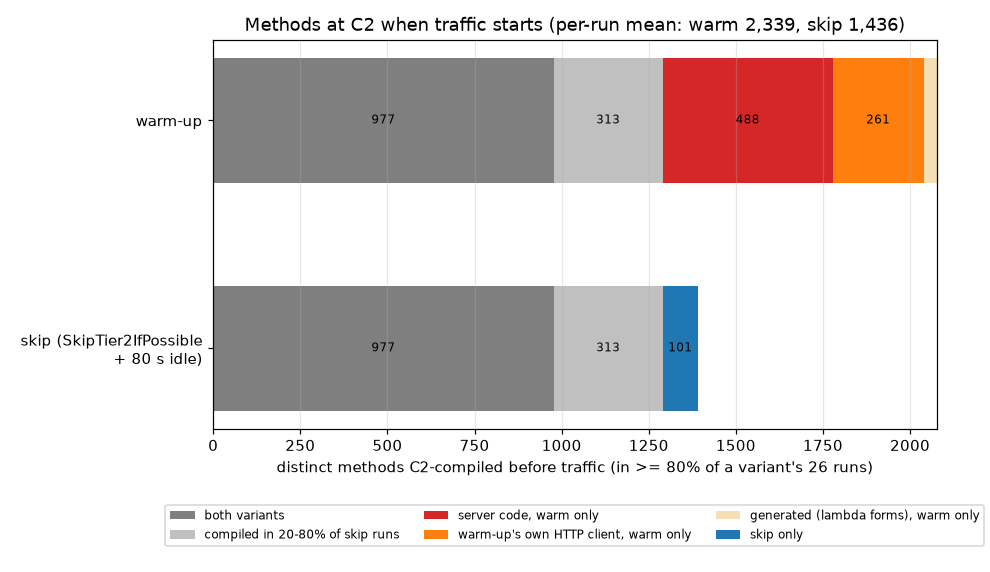
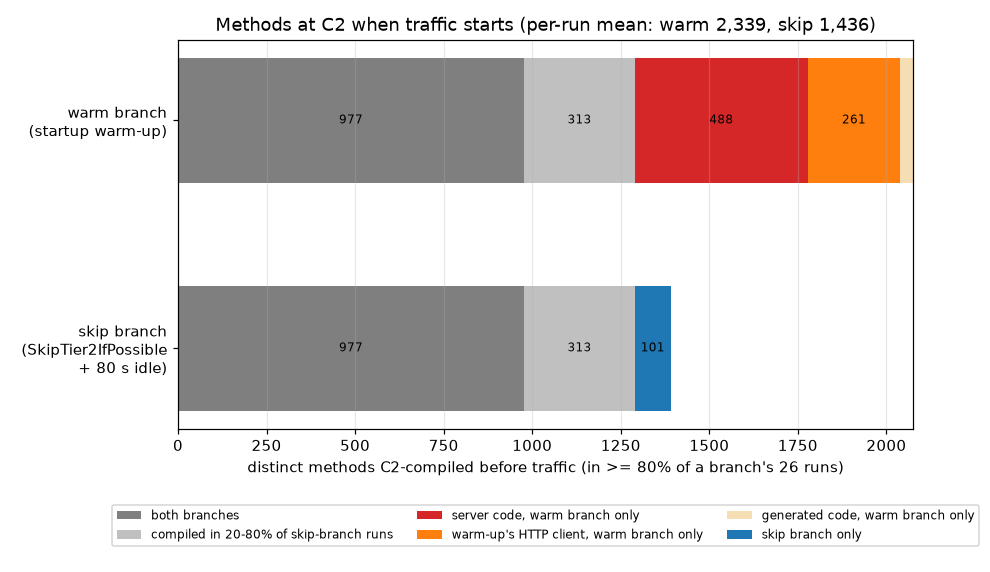
SkipTier2 vs warm-up report: describe the test branches, explain preloaded vs initialized classes

diff --git a/20261119-skiptier2-vs-warmup/REPORT.md b/20261119-skiptier2-vs-warmup/REPORT.md
@@ -4,37 +4,76 @@ Date: 2026-11-19. This report summarizes and extends the earlier ones: [jit-dela
 and [jit-5s](../20261119-jit-5s/REPORT.md). It adds a source-level investigation of HotSpot's training replay
 and a follow-up experiment (fix A plus an idle-period GC).
 
+**Naming.** `warm` and `skip` in monospace are the two test branches described in section 1. Plain-text "the
+warm-up" or "the startup warm-up" means the mechanism: the self-traffic the API sends itself at startup.
+
 ## Summary
 
-- **Warm-up starts traffic with about 900 more methods at C2 than skip does: 2,339 vs 1,436 per run.**
-  - About 300 of the difference is warm-up's own HTTP client and generated code. Serving doesn't need them.
+- **`warm` starts traffic with about 900 more methods at C2 than `skip`: 2,339 vs 1,436 per run.**
+  - About 300 of the difference is the warm-up's own HTTP client and generated code. Serving doesn't need them.
   - **488 are server methods on the request path,** such as Tomcat, NIO, Jackson, PgJDBC, Hikari and our
-    servlet. Skip has to compile those with C2 after traffic arrives, about 300–370 C2 compiles in all. That
+    servlet. `skip` has to compile those with C2 after traffic arrives, about 300–370 C2 compiles in all. That
     keeps C2 at about 0.4 of the API's single CPU for the first 8 s of the burst.
-  - This is the root of skip's failures: it passed 3 of 26 runs, against 23 of 26 for warm-up.
+  - This is the root of `skip`'s failures: it passed 3 of 26 runs, against 23 of 26 for `warm`.
 - **The AOT cache knows about all of these methods.** All but one have training data, with stored profiles.
-  Eager compilation still doesn't C2-compile them before traffic, for three reasons visible in the HotSpot
-  source (JDK 25):
+  Eager compilation still doesn't C2-compile them before traffic, for reasons visible in the HotSpot source
+  (JDK 25):
   - **A. Dependencies only the training run initialized (108 methods).** A replayed C2 compile waits until every
     class the training compile looked at is initialized. Some of those classes belonged to the warm-up's own
-    HTTP client and are never initialized in a JVM without warm-up. This one we could fix in our setup, and it's
-    now done.
+    HTTP client and are never initialized in `skip`, which runs no warm-up. This one we could fix in our setup,
+    and it's now done.
   - **B. A dropped upgrade (78 methods).** Each method's last dependency was met while its eager level-2 compile
     was still queued, so the C2 upgrade was skipped and never retried.
   - **C. No top-level C2 compile in training (170 methods).** Training compiled them on their own only at C1. 134
     reached C2 only inlined into callers. Eager compilation never takes these past level 2.
   - **D. Dependencies initialized by the first real requests (103 methods).** These work as designed, but only
     once traffic has started.
+- **Preloaded is not initialized.**
+  - The AOT cache loads and links every cached class at startup, including the request-path classes.
+  - JIT dependencies wait for class initialization, which runs a class's static initializer at its first use.
+    Right after preloading, 1,136 of 1,137 application and library classes in the training data were only
+    linked.
+  - JDK 25 skips static initializers ("AOT-initialized") only for classes defined entirely by the JDK.
 - **The general hurdle is D.** Request-path code depends on classes that are initialized by the first request.
   JDK 25's eager compilation therefore can't put a service's request path at C2 before the first request, however
   much it was trained. For a service with many endpoints, the C2 backlog at first traffic grows with the number
   of endpoints; the projection puts it at 600–1,900 methods for 10 endpoints.
 - **The end goal is having the request path's code ready before the first request, at little CPU cost.**
-  JDK 25 can't do this without synthetic traffic. Warm-up does it, at about 60 s of startup CPU. JDK 28's AOT
-  code compilation (JEP 544, in mainline) is designed for it: "preload" C2 code with class-initialization
-  barriers that runs before dependencies are met.
+  - JDK 25 can't do this without synthetic traffic.
+  - `warm` does it, at about 60 s of startup CPU.
+  - JDK 28's AOT code compilation (JEP 544, in mainline) is designed for it: "preload" C2 code with
+    class-initialization checks, which can run before dependencies are met.
 
-## 1. Background: why more C2 at startup, and the ideal
+## 1. The two test branches
+
+Both branches use the same setup:
+- **The service:** the same build of a Spring Boot API on JDK 25 (Temurin 25.0.5).
+- **Its container:** 1 CPU, SerialGC, heap at 60% of container memory.
+- **Around it:** Postgres and four delivery workers.
+- **The AOT cache:** JEP 483/515, recorded by `scripts/train.sh` on a training load of 10k, 20k or 40k calls. It
+  is used with `-XX:+AOTCompileEagerly`, which the entrypoint sets whenever a cache is present.
+- **Each run:** a fresh API container, then the same checker.
+  - First, the functional checks.
+  - Then the load test: 1 / 100 / 2,000 / 100 / 1 req/s, where the 2,000 req/s burst lasts 10 s.
+  - To pass, more than 95% of the load test's requests must be acknowledged within 35 ms.
+
+The branches differ only in how the API gets ready for traffic:
+
+| | `warm` | `skip` |
+|---|---|---|
+| Idea | Run real request code in the serving JVM before admitting traffic | Use the AOT cache's training profiles to compile hot methods early, with no synthetic traffic |
+| API startup warm-up | On (`API_WARMUP_ENABLED=true`) | Off |
+| Extra JVM flags | none | `-XX:+UnlockDiagnosticVMOptions -XX:+SkipTier2IfPossible` |
+| Before traffic | The API sends itself representative traffic over loopback until the JIT settles: 16 concurrent `java.net.http` requests; appends, reordered retries, lookups, 400 and 404 paths. It takes 60–65 s, at most 90 s. Outside requests get 503 and the health check reports out of service until it finishes; then the warm-up rows are deleted and the API reports healthy. | The API reports healthy at about 10 s and then sits idle until 80 s after container start, so eager compilation can finish. |
+| Checker starts | 10 s after healthy | 80 s after container start |
+| In the follow-up (section 5) | unchanged | plus one `System.gc()` 60 s after startup (`api.warmup.gc-after=60s`) |
+
+`SkipTier2IfPossible` is a diagnostic HotSpot flag. A method that has a usable C2 compile in the training data
+skips C1's limited-profile tier (level 2) and goes straight to C2 (level 4). The hypothesis behind `skip` was
+that eager compilation would then put the hot methods at C2 during the idle period, so no warm-up traffic would
+be needed.
+
+## 2. Background: why more C2 at startup, and the ideal
 
 HotSpot starts every method in the interpreter, then compiles it with C1, which is quick but only moderately
 fast code, and then with C2 once it's hot enough and profiled. C2 code is typically several times faster than
@@ -43,52 +82,49 @@ compiles cost about 3.1 CPU-seconds.
 
 That compile work has to happen somewhere. If it happens after traffic starts, it competes with requests for
 CPU exactly when the service is least warm.
-- **Measured here:** a container with 1 CPU and an SLA of more than 95% of requests acknowledged within 35 ms
-  at 2,000 req/s.
-- **Skip:** C2 used 0.37–0.41 CPU for 8 s, leaving almost no headroom. Any pause, such as a 40–80 ms GC or a
-  45 ms hiccup in the checker, then turned into hundreds or thousands of late requests, and sometimes a
-  collapse into overload that never recovered.
-- **Warm-up:** it had done that work before reporting healthy. Its C2 used 0.04–0.05 CPU in the burst, the same
+- **`skip`:** C2 used 0.37–0.41 CPU for the first 8 s of the burst, leaving almost no headroom. Any pause, such
+  as a 40–80 ms GC or a 45 ms hiccup in the checker, then turned into hundreds or thousands of late requests,
+  and sometimes a collapse into overload that never recovered.
+- **`warm`:** it had done that work before reporting healthy. Its C2 used 0.04–0.05 CPU in the burst, the same
   stalls cost a few dozen requests, and it passed 23 of 26 runs.
 
 **The ideal end state** is that, before the instance reports healthy:
 1. Every method that will be hot in steady state is already at C2, so no JIT work competes with requests. In
-   this service that's about 2,000 methods; warm-up gets close, with about 45 C2 compiles left for traffic.
+   this service that's about 2,000 methods. `warm` gets close, with about 45 C2 compiles left for traffic.
 2. The profiles behind that code match production, so there's no wave of deoptimizations and recompiles at
    first traffic.
 3. The heap has its long-lived startup objects already promoted, so the first young GCs under load are cheap.
-   This was the second skip problem, fixed separately (section 4).
+   This was `skip`'s second problem, fixed separately (section 5).
 4. Ideally, none of this costs much CPU at startup either: compiled code is loaded rather than compiled, and
-   no synthetic traffic is needed. Warm-up meets 1–3, but costs about 60 s of startup CPU and needs
+   no synthetic traffic is needed. `warm` meets 1–3, but costs about 60 s of startup CPU and needs
    side-effect-free self-traffic, which here means a separate warm-up table.
 
-SkipTier2IfPossible with an idle period was meant to get to 1 using the AOT cache's training data instead of
-traffic. The rest of this report explains why it doesn't.
+`skip` was meant to get to 1 using the AOT cache's training data instead of traffic. The rest of this report
+explains why it doesn't.
 
-## 2. Measured gap
+## 3. Measured gap
 
-Runs: 26 per variant (jit-5s). Skip is `-XX:+SkipTier2IfPossible` and `-XX:+AOTCompileEagerly` with an AOT
-cache, then 80 s idle. Warm is the in-process startup warm-up, 60–65 s.
+Runs: 26 per branch (jit-5s).
 
 ![Methods at C2 when traffic starts](graphs/c2-before-traffic.png)
 
-Counting methods C2-compiled before traffic in at least 80% of a variant's runs:
+Counting methods C2-compiled before traffic in at least 80% of a branch's runs:
 
 | | Methods |
 |---|---|
-| C2 in both variants | 977 |
-| C2 in warm, and in 20–80% of skip runs (varies run to run) | 313 |
-| C2 in warm only: server code | **488** |
-| C2 in warm only: warm-up's own `java.net.http` client and its `CompletableFuture` chains | 261 |
-| C2 in warm only: generated code (lambda forms) | 37 |
-| C2 in skip only | 101 |
+| C2 in both branches | 977 |
+| C2 in `warm`, and in 20–80% of `skip` runs (varies run to run) | 313 |
+| C2 in `warm` only: server code | **488** |
+| C2 in `warm` only: the warm-up's own `java.net.http` client and its `CompletableFuture` chains | 261 |
+| C2 in `warm` only: generated code (lambda forms) | 37 |
+| C2 in `skip` only | 101 |
 
 The 488 server methods are the gap that matters: JDK and Jakarta 242, Tomcat 85, Jackson 54, PgJDBC 46,
-Spring 18, the application 17, Hikari 16 and others 10. During traffic, skip did about 300–370 C2 compiles,
-against about 45 for warm. About 230 of those were level-2 → C2 upgrades of methods eager compilation had left
-at C1.
+Spring 18, the application 17, Hikari 16 and others 10. During traffic, `skip` did about 300–370 C2 compiles,
+against about 45 for `warm`. About 230 of `skip`'s were level-2 → C2 upgrades of methods eager compilation had
+left at C1.
 
-## 3. Why eager compilation leaves them at C1 (JDK 25 source)
+## 4. Why eager compilation leaves them at C1 (JDK 25 source)
 
 The relevant code is in `src/hotspot/share/compiler/compilationPolicy.cpp` and `oops/trainingData.cpp`, at tag
 `jdk-25-ga`. The runtime is Temurin 25.0.5.
@@ -106,15 +142,53 @@ C2 compile looked at, and that was initialized at the time, becomes an init depe
 describes this as "conservatively" assuming the JIT depends on its initialization. For example,
 `HikariDataSource::getConnection` has 52 dependencies, including Micrometer timer classes.
 
-**How we measured it:**
+### Preloaded is not initialized
+
+The AOT cache in JDK 25 does preload every cached class, request-path classes included, so it's natural to
+expect the dependencies to be met at startup. They aren't, because loading and initialization are separate
+steps:
+
+1. **Loading and linking.** The AOT cache does this for every cached class during startup, before `main` runs.
+2. **Initialization.** This runs the class's static initializer (`<clinit>`) and sets up its static fields. The
+   Java Language Specification (§12.4) ties it to first active use: the first `new`, static method call or
+   static field access. The JVM can't initialize classes early, because a static initializer can have side
+   effects, and the order of those effects is visible to the program.
+
+**What the dependencies wait for.** Initialization, not loading. A dependency is counted down by
+`replay_training_at_init`, which `InstanceKlass::initialize_impl` calls once the class reaches
+`fully_initialized`. This matters: C2 code compiled in training may assume a class's static state is set up, for
+example by folding a `static final` value or leaving out an initialization check.
+
+**Measured.** `-XX:+AOTPrintTrainingInfo` prints its dump "after all classes preloaded", with each class's state
+at that moment:
+
+| Classes in the training data | Loaded and linked, not initialized | Initialized |
+|---|---|---|
+| Application and libraries (Spring, Tomcat, Jackson, Hikari, Caffeine, …) | 1,136 | 1 |
+| JDK | 1,031 | 308 |
+
+So request-path classes such as Tomcat's `OutputBuffer`, `PgPreparedStatement` and Jackson's
+`UTF8StreamJsonParser` are loaded early but stay merely linked until a request first uses them.
+
+**The narrow exception.** JDK 25 can store some classes already initialized ("AOT-initialized"), so production
+skips their static initializer. That's where the 308 initialized JDK classes come from. It applies only to
+classes defined entirely by the JDK, which are known to have no side effects. `aotClassInitializer.cpp` says:
+
+> the optimization (of skipping `<clinit>` for aot-init classes) is only applied to classes fully defined by the
+> JDK. (A day may come when we figure out how to gracefully extend this optimization to untrusted third
+> parties, but it is not this day.)
+
+### The four causes
+
+How we measured them:
 - **The cache's training data:** `-XX:+AOTPrintTrainingInfo` dumps every compile record and its dependencies.
 - **When each class was counted down:** `-Xlog:training=debug`.
 - **Every eager decision and the method's dependency counter:** `-XX:+PrintTieredEvents`.
 - **Which methods got compiled when:** JFR.
 
-The data is from one instrumented skip run and one idle-only run, both on the 40k cache.
+The data is from one instrumented `skip` run and one idle-only run with `skip`'s settings, both on the 40k cache.
 
-![Causes and when skip compiles them](graphs/gap-causes.png)
+![Causes and when the skip branch compiles them](graphs/gap-causes.png)
 
 | Cause | Methods | C2 during the burst | Never C2 in the run |
 |---|---|---|---|
@@ -127,25 +201,28 @@ The data is from one instrumented skip run and one idle-only run, both on the 40
 In D, 92 of the 103 methods reached C2 during the functional checks.
 
 Evidence for each cause:
+- **A** was possible because the training JVM ran the startup warm-up, as `warm` does. The C2 compiles of shared
+  code (`CompletableFuture`, NIO buffers, Tomcat output paths) therefore saw the warm-up client's classes, and
+  `skip` never initializes them.
 - **B in the idle-only run:**
   - **Last dependency met while the level-2 compile was queued:** 104 of 124 methods never got C2 during idle.
   - **Met after level 2 was installed:** 142 of 185 did.
   - **Example:** `getConnection` was queued at level 2 at 10.2799 s with `deps=9`. Its remaining dependencies
     were counted down at 10.280 s while 894 compiles waited in the C2 queue.
 - **B in current JDK `master`:** still present; the queue check is unchanged.
-- **D is not a bug.** The design doesn't let code that assumes a class is initialized run before that class has
-  been initialized. Request-path classes are initialized by requests, so during an idle period with no traffic
-  that code can't be installed.
+- **D is not a bug.** It is the preloaded-but-not-initialized gap described above. During an idle period with no
+  traffic, nothing initializes the request-path classes, so code that assumes they're initialized can't be
+  installed.
 
-## 4. Follow-up: fixing A, plus a GC during the idle period
+## 5. Follow-up: fixing A, plus a GC during the idle period
 
-Two changes, then 4 runs of each variant on a 40k cache retrained with them (experiment depfix-gc):
-- **Fix A:** record the AOT cache with the in-process warm-up off. Compile records depending on HttpClient classes
-  went from 20,740 of 109,210 to 0 of 78,669.
-- **Idle-period GC:** one `System.gc()` 60 s after startup. Skip's first two young collections had cost 37–82 ms
-  each in the burst, because they copied the objects left live by startup.
+Two changes, then 4 runs of each branch on a 40k cache retrained with them (experiment depfix-gc):
+- **Fix A:** record the AOT cache with the startup warm-up off. Compile records depending on HttpClient classes
+  went from 20,740 of 109,210 to 0 of 78,669. Both branches use the new cache.
+- **Idle-period GC, `skip` only:** one `System.gc()` 60 s after startup. `skip`'s first two young collections had
+  cost 37–82 ms each in the burst, because they copied the objects left live by startup.
 
-| | Skip before (10 runs) | Skip after (4 runs) |
+| | `skip` before (10 runs) | `skip` after (4 runs) |
 |---|---|---|
 | C2 compiles during traffic | 369 | 304 |
 | C2 level raises during traffic | 244 | 192 |
@@ -153,15 +230,17 @@ Two changes, then 4 runs of each variant on a 40k cache retrained with them (exp
 | First GC pause in the burst | 46–56 ms | 5–11 ms (52 ms in the collapsed run) |
 | On time | 2 of 10 passed | 1 of 4 passed (86.3%, 95.8%, 9.6%, 93.9%) |
 
+`warm` passed 3 of 4 (99.4%, 97.9%, 60.3%, 99.97%).
+
 The GC problem is gone and the compile backlog shrank by about 18%, but C2 still takes about 0.4 CPU for 8 s:
 - **B, C and D are untouched.**
 - **Losses now come from other small stalls.** Most came from a 30–48 ms stall in the load generator's own
-  sender at the same point in every run, including warm runs. Warm absorbs it in about 0.2 s; skip needs about
+  sender at the same point in every run of both branches. `warm` absorbs it in about 0.2 s; `skip` needs about
   0.6 s.
-- **One skip run collapsed with no trigger at all.**
-- **One warm run (60%) failed for an unrelated reason:** Postgres was saturated.
+- **One `skip` run collapsed with no trigger at all.**
+- **The failed `warm` run (60%) failed for an unrelated reason:** Postgres was saturated.
 
-## 5. Projection: services with more than one endpoint
+## 6. Projection: services with more than one endpoint
 
 This service has two endpoints that share almost all of their request path: POST and GET `/events`. Real
 services usually have many. The hurdles above scale with that, roughly as follows.
@@ -188,7 +267,7 @@ These are assumptions for illustration, not measurements of another service.
 | 50 | 1,400 / 2,650 / 7,900 | 9 / 17 / 50 |
 
 How many of those methods each approach gets to C2 before the endpoint's first request:
-- **SkipTier2IfPossible on JDK 25, even with fix A: about none.**
+- **The `skip` approach on JDK 25, even with fix A: about none.**
   - The 21% in D, plus whatever share of A's methods depend only on request-initialized classes, become eligible
     at the endpoint's first request and are compiled in a wave right then.
   - The roughly 57% in B, C and "other" wait for this JVM's invocation counters, i.e. for load.
@@ -196,38 +275,40 @@ How many of those methods each approach gets to C2 before the endpoint's first r
     time hours later pays it then.
   - The "about none" doesn't depend on K, but the backlog grows linearly with K, and so does the window in
     which the instance has no CPU headroom.
-- **Warm-up that exercises every endpoint: about all of them,** but the same compile CPU moves into startup.
-  This service already spends about 60 s of warm-up. That grows with K, and warm-up traffic has to stay
-  representative of, and isolated from, real data for every endpoint.
+- **The `warm` approach, with a warm-up that exercises every endpoint: about all of them,** but the same compile
+  CPU moves into startup. This service already spends about 60 s of warm-up. That grows with K, and warm-up
+  traffic has to stay representative of, and isolated from, real data for every endpoint.
 - **AOT code with preload (JEP 544, JDK 28 mainline): most of them, at little CPU.** This is a rough guess, not
   measured.
   - Code is compiled at AOT-cache creation and loaded, not compiled, in production.
-  - "AP4" preload code carries class-initialization barriers, so it can run before dependencies are met. That
-    removes the dependency gate behind A and D, and since nothing has to wait for a level-2 compile, B also goes
-    away.
+  - "AP4" preload code carries class-initialization checks, so it can run while its classes are only loaded and
+    linked; the first check that finds a class uninitialized triggers its normal initialization. That removes
+    the dependency gate behind A and D, and since nothing has to wait for a level-2 compile, B also goes away.
   - C becomes a smaller problem when its methods are inlined into callers that have AOT code.
   - I'd expect 65–90% of the request path to have C2-quality code before the first request.
   - The remaining 10–35% is my estimate of methods with no top-level C2 compile in training and not covered
     through inlining. It's an extrapolation from C's 35% share here.
 
-## 6. Conclusions
+## 7. Conclusions
 
 - On JDK 25, AOT training data plus SkipTier2IfPossible and eager compilation C2-compile startup and shared code
-  well. They can't C2-compile the request path before traffic, because those compiles depend on classes that
-  only requests initialize. Training size doesn't matter: 10k, 20k and 40k training calls gave the same counts.
-- Of skip's problems, the ones we could fix are fixed:
+  well. They can't C2-compile the request path before traffic: those compiles depend on classes that the AOT
+  cache preloads but that only requests initialize. Training size doesn't matter: 10k, 20k and 40k training
+  calls gave the same counts.
+- Of `skip`'s problems, the ones we could fix are fixed:
   - training no longer records dependencies on the warm-up client (A);
   - an idle-period GC keeps the expensive startup GCs out of the burst.
   B is a HotSpot policy race that could be reported upstream. C and D are inherent to JIT-only replay.
-- For this service on JDK 25, startup warm-up remains the reliable way to meet the SLA. For services with many
-  endpoints, warm-up's cost grows with the number of endpoints and skip's backlog grows with it too. The way out
-  is AOT code that can run before class initialization, which is what JEP 544's preload code targets.
+- For this service on JDK 25, `warm` remains the reliable way to meet the SLA. For services with many endpoints,
+  the `warm` approach's startup cost grows with the number of endpoints, and so does the `skip` approach's
+  backlog. The way out is AOT code that can run before class initialization, which is what JEP 544's preload
+  code targets.
 
 ## Data
 
 Experiments, in the work-trial repository's `evaluations/`, which is not published:
-- jit-5s: 52 runs;
-- training-deps: the instrumented run, the idle-only `PrintTieredEvents` run and the training-data dump;
-- depfix-gc: fix A plus the idle-period GC, 8 runs.
+- jit-5s: 52 runs of `warm` and `skip`;
+- training-deps: the instrumented `skip` run, the idle-only `PrintTieredEvents` run and the training-data dump;
+- depfix-gc: fix A plus the idle-period GC, 4 runs per branch.
 
 The figures are generated by `evaluations/20261119-skip-vs-warm-report/figures.py` there.
